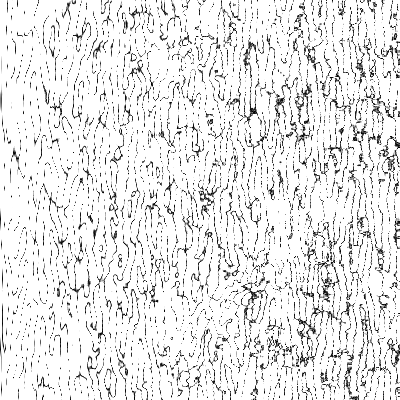
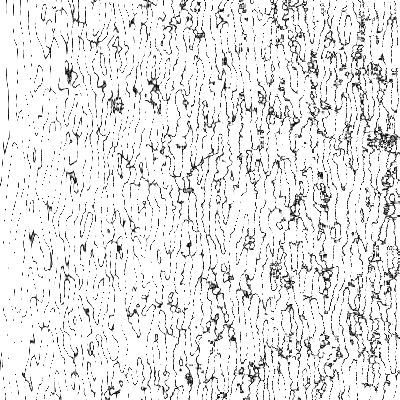
3d convolution trying

diff --git a/PycharmProjects/disserProj/src/core/find_rings.py b/PycharmProjects/disserProj/src/core/find_rings.py
@@ -1,7 +1,10 @@
 import numpy as np
-from scipy import ndimage
-import cv2 as cv
 import math
+from scipy import ndimage
+from scipy import signal
+import cv2 as cv
+import os
+from os import walk
 from matplotlib import pyplot as plt
 from metrics.metrics_wrappers import jaccard_metric
 from metrics.metrics_wrappers import more_cool_metric
@@ -121,6 +124,52 @@ def drawGrayHistMasked(img, maxValue=256, title='Masked Gray Histogram'):
     plt.show()
 
 
+def read_image_slices(input_folder, input_name, start_index=0, step=1):
+    f = []
+    for (dirpath, dirnames, filenames) in walk(input_folder):
+        f.extend(filenames)
+        break
+    slices_num = len(f)
+    center_image_index = math.ceil(slices_num / 2)
+    slices = []
+    for i in f:
+        full_name = os.path.join(input_folder, i)
+        print(full_name)
+        slice = cv.imread(full_name, 0)
+        polar = cv.linearPolar(slice, (slice.shape[1] // 2, slice.shape[0] // 2), slice.shape[1] // 2,
+                               cv.WARP_FILL_OUTLIERS)
+        slice = None
+        slices.append(polar)
+
+    slices = np.dstack((slices[:]))
+    print(slices.shape)
+    #slices = np.stack(slices)
+    #print(slices)
+
+    kernels = np.repeat(CONV_KERNEL_BIG[None, :], slices_num, axis=0)
+    REALLY_BIG_KERNEL = np.dstack((kernels[:]))
+    print(REALLY_BIG_KERNEL.shape)
+    #REALLY_BIG_KERNEL = np.repeat(CONV_KERNEL_BIG[None, :], slices_num, axis=0)
+    #print(REALLY_BIG_KERNEL)
+
+
+
+    print("#######")
+    convolved_polar = signal.convolve(np.float32(slices), REALLY_BIG_KERNEL)
+    #convolved_polar = ndimage.convolve(np.float32(slices), REALLY_BIG_KERNEL)
+    print(convolved_polar.shape)
+
+    print("#######")
+    abs_polar = np.abs(convolved_polar)
+    print(abs_polar)
+
+    THRESH = 5000
+    ret, bin_result = cv.threshold(abs_polar, THRESH, 255, cv.THRESH_BINARY)
+    bin_result = np.uint8(bin_result)
+
+    cv.imwrite("../../result.png", bin_result)
+
+
 def findRingsConnected(img, showInfo=0, thresh_bound=2000, height_bound=0, res_img_prefix=''):
     contr_img = equal_contrast(img)
 
@@ -222,12 +271,16 @@ def findRingsConnected(img, showInfo=0, thresh_bound=2000, height_bound=0, res_i
     return result
 
 
-def calculate(imagePath, truthPath=None, info=0, thresh=2000, height=2000, center_height=2000, only_jaccard_metrics=False):
+def calculate(imagePath, truthPath=None, info=0, thresh=2000, height=2000, center_height=2000,
+              only_jaccard_metrics=False, is3d=False):
     start_time1 = time.time()
-    img = cv.imread(imagePath, 0)
+    if is3d == False:
+        img = cv.imread(imagePath, 0)
+
     if truthPath != None:
         truth = cv.imread(truthPath, 1)
         truth = cv.inRange(truth, bot, top)
+        #truth = cv.morphologyEx(truth, cv.MORPH_CLOSE, MORPH_KERNEL)
 
     pred = findRingsConnected(img, showInfo=info, thresh_bound=thresh, height_bound=height, res_img_prefix='big_')
     end_time1 = time.time() - start_time1

diff --git a/PycharmProjects/disserProj/src/metrics/region_wise_metric.py b/PycharmProjects/disserProj/src/metrics/region_wise_metric.py
@@ -56,7 +56,7 @@ def jaccard_index(im3d1, im3d2):
 
 
 # region-wise metrics
-def region_metrics(im3d_gt, im3d_seg, threshold=0.4, debug_folder=None):
+def region_metrics(im3d_gt, im3d_seg, threshold=0.3, debug_folder=None):
 
     matches_for_DIOU = calc_matches_for_region_metrics(im3d_gt, im3d_seg, threshold, debug_folder=debug_folder)
     matches_for_GIOU = calc_matches_for_region_metrics(im3d_seg, im3d_gt, threshold, debug_folder=debug_folder)
@@ -67,7 +67,7 @@ def region_metrics(im3d_gt, im3d_seg, threshold=0.4, debug_folder=None):
     many2one = matches_for_GIOU[1]
     #print(one2one, one2many, many2one)
     #print(n_seg, n_gt)
-    weights = np.asarray((1, 0.75, 0.75))
+    weights = np.asarray((0.75, 1.0, 1.0))
     values = np.asarray((one2one, one2many, many2one))
     weighted_sum = (weights * values).sum()
     DR = weighted_sum / n_gt

diff --git a/PycharmProjects/disserProj/src/correction/correction.py b/PycharmProjects/disserProj/src/correction/correction.py
@@ -23,9 +23,9 @@ def image_correction(imagePath, truthPath=None, info=0, thresh=5000, height=100,
 
 
 if __name__ == "__main__":
-    imagePath = "../../papka/AllRings/rings3.png"
-    truthPath = "../../papka/AllRings/marked3.png"
-    image_correction(imagePath, truthPath, info=1, thresh=5300, height=100, center_height=40)
+    imagePath = "../../papka/AllRings/rings6.png"
+    truthPath = "../../papka/AllRings/marked6.png"
+    image_correction(imagePath, truthPath, info=1, thresh=5500, height=100, center_height=40)
 
 
 

diff --git a/PycharmProjects/disserProj/src/core/try.py b/PycharmProjects/disserProj/src/core/try.py
@@ -1,0 +1,7 @@
+from core.find_rings import read_image_slices
+
+if __name__ == "__main__":
+    images_dir = "../../papka/13sliceswithrings"
+    truthPath = "../../papka/AllRings/marked3.png"
+
+    read_image_slices(images_dir, '', 0, 1)
